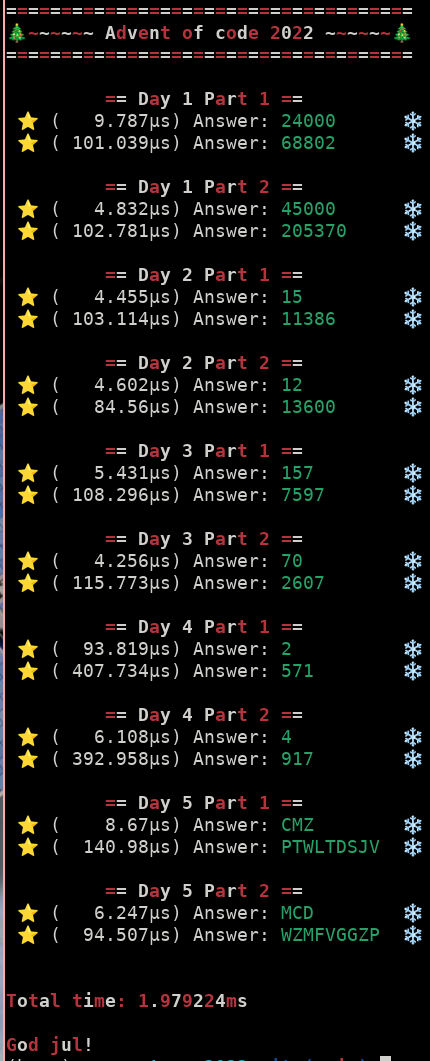
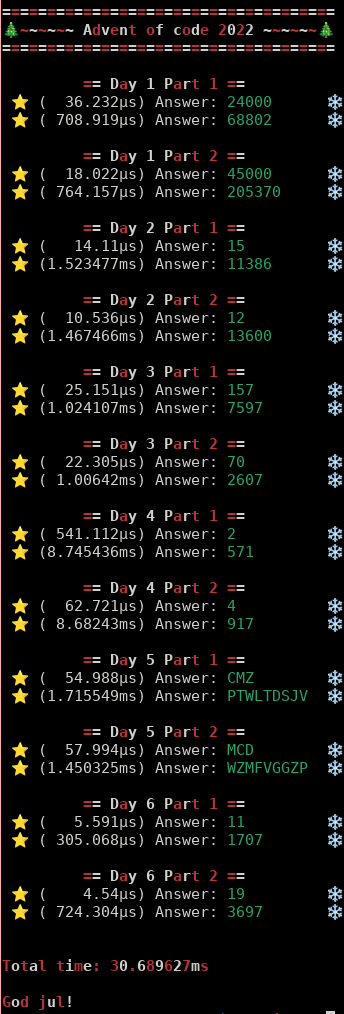
day6

diff --git a/src/days/day6.rs b/src/days/day6.rs
@@ -1,0 +1,74 @@
+#[allow(dead_code, unused)]
+use std::{collections::HashMap, str::FromStr, string::ParseError};
+
+use crate::days::aoc::Solution;
+
+use super::{
+    aoc::{get_path, read_file_str, Answer},
+    Files,
+};
+
+pub struct Day6 {}
+
+impl Day6 {
+    pub fn new() -> Self {
+        Self {}
+    }
+
+    pub fn find_marker(window_size: usize, data: &str) -> usize {
+        let result = data
+            .as_bytes()
+            .windows(window_size)
+            .position(|slice| {
+                slice
+                    .iter()
+                    .enumerate()
+                    .all(|(i, x)| !slice[i + 1..].contains(x))
+            })
+            .unwrap()
+            + window_size;
+        return result;
+    }
+    pub fn solve1(data: String) -> String {
+        let result = Day6::find_marker(4, &data);
+        return result.to_string();
+    }
+    pub fn solve2(data: String) -> String {
+        let result = Day6::find_marker(14, &data);
+        return result.to_string();
+    }
+}
+
+impl Solution for Day6 {
+    fn solve_example1(&self) -> Answer {
+        let instant = self.timer_start();
+        let data = "zcfzfwzzqfrljwzlrfnpqdbhtmscgvjw".to_string();
+        let solution = Day6::solve1(data);
+        return Answer::new(&solution.to_string(), instant.elapsed());
+    }
+
+    fn solve_part1(&self) -> Answer {
+        let instant = self.timer_start();
+        let data = read_file_str(&get_path(Files::Part1, self.get_day()));
+        let solution = Day6::solve1(data);
+        return Answer::new(&solution.to_string(), instant.elapsed());
+    }
+
+    fn solve_example2(&self) -> Answer {
+        let instant = self.timer_start();
+        let data = "mjqjpqmgbljsphdztnvjfqwrcgsmlb".to_string();
+        let solution = Day6::solve2(data);
+        return Answer::new(&solution.to_string(), instant.elapsed());
+    }
+
+    fn solve_part2(&self) -> Answer {
+        let instant = self.timer_start();
+        let data = read_file_str(&get_path(Files::Part1, self.get_day()));
+        let solution = Day6::solve2(data);
+        return Answer::new(&solution.to_string(), instant.elapsed());
+    }
+
+    fn get_day(&self) -> i32 {
+        return 6;
+    }
+}

diff --git a/benches/aoc_benchmark.rs b/benches/aoc_benchmark.rs
@@ -1,5 +1,5 @@
 use criterion::{criterion_group, criterion_main, Criterion};
-use rust_aoc2022::days::{Day1, Day2, Day3, Day4, Day5, Solution};
+use rust_aoc2022::days::{Day1, Day2, Day3, Day4, Day5, Day6, Solution};
 
 fn day_1_part_1(c: &mut Criterion) {
     let day1 = Day1::new();
@@ -71,6 +71,20 @@ fn day_5_part_2(c: &mut Criterion) {
     });
 }
 
+fn day_6_part_1(c: &mut Criterion) {
+    let day6 = Day6::new();
+    c.bench_function("Day 6 Part 1", |b| {
+        b.iter(|| day6.solve_part1());
+    });
+}
+
+fn day_6_part_2(c: &mut Criterion) {
+    let day6 = Day6::new();
+    c.bench_function("Day 6 Part 2", |b| {
+        b.iter(|| day6.solve_part2());
+    });
+}
+
 criterion_group!(
     benches,
     day_1_part_1,
@@ -82,6 +96,8 @@ criterion_group!(
     day_4_part_1,
     day_4_part_2,
     day_5_part_1,
-    day_5_part_2
+    day_5_part_2,
+    day_6_part_1,
+    day_6_part_2,
 );
 criterion_main!(benches);

diff --git a/src/main.rs b/src/main.rs
@@ -2,7 +2,7 @@ use std::time::Instant;
 
 use days::{
     aoc::{christmas_print, pretty_print_banner, pretty_print_linebreak},
-    Day1, Day2, Day3, Day4, Day5, Solution,
+    Day1, Day2, Day3, Day4, Day5, Day6, Solution,
 };
 
 mod days;
@@ -14,6 +14,7 @@ fn main() {
         Box::new(Day3::new()),
         Box::new(Day4::new()),
         Box::new(Day5::new()),
+        Box::new(Day6::new()),
     ];
 
     pretty_print_linebreak();

diff --git a/src/days/mod.rs b/src/days/mod.rs
@@ -4,6 +4,7 @@ pub mod day2;
 pub mod day3;
 pub mod day4;
 pub mod day5;
+pub mod day6;
 
 pub use self::aoc::Files;
 pub use self::aoc::Solution;
@@ -12,3 +13,4 @@ pub use self::day2::Day2;
 pub use self::day3::Day3;
 pub use self::day4::Day4;
 pub use self::day5::Day5;
+pub use self::day6::Day6;
